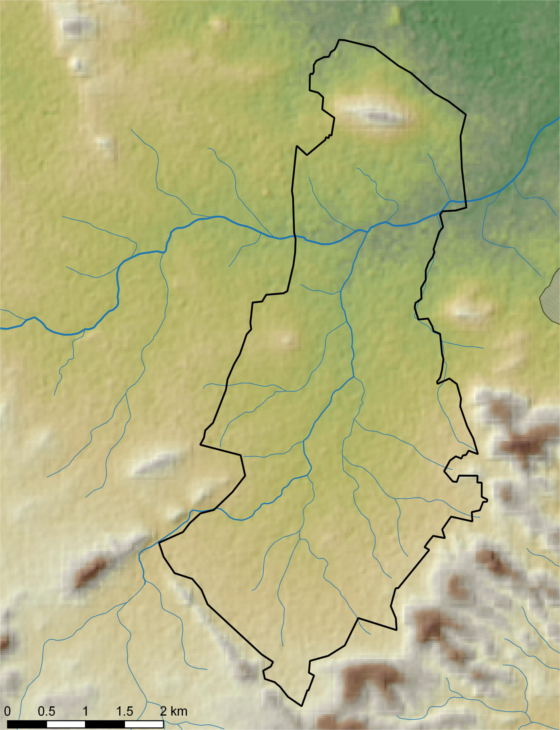
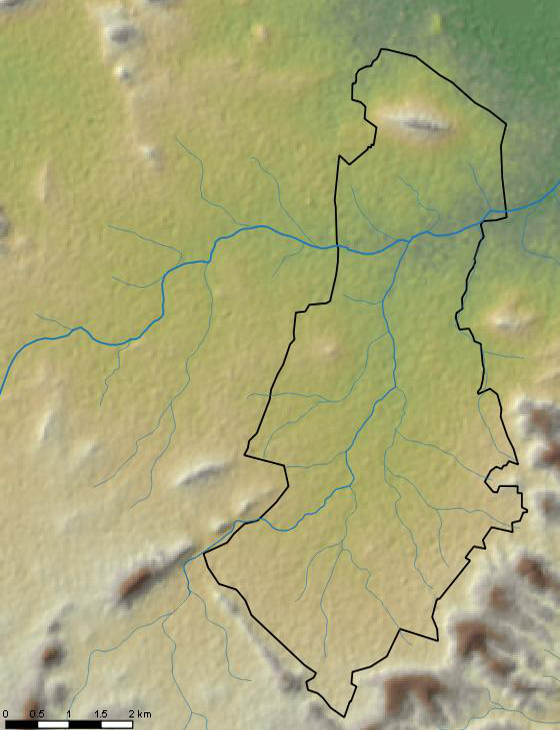
Dhone case study: move mapped to right

diff --git a/assets/js/well_vis.js b/assets/js/well_vis.js
@@ -29,7 +29,7 @@ var w = 580 - margin_map.left - margin_map.right,
 
 // Define map projection
 var projection = d3.geo.transverseMercator()
-      				   .rotate([-77.81858, -15.392, 0])
+      				   .rotate([-77.81258, -15.393, 0])
       				   .translate([w/2, h/2])
       				   .scale(420000);
 
@@ -54,7 +54,7 @@ var colorStatus = d3.scale.ordinal()
 
 var landuseScale = d3.scale.ordinal()
 							.domain(["Single Crop", "Double Crop", "Plantation", "Fallow", "Scrub",  "Rocky Ground", "Settlements"])
-							.range(["#abdf8f", "#5fb933", "#b68f30", "#ffff8c", "#f8d496", "#828482", "#bb312f"])
+							.range(["#9bca6c", "#5fb933", "#b68f30", "#ffff8c", "#f8d496", "#828482", "#bb312f"])
 
 var dem_colors = ["#227516", "#648744", "#9bc133", "#cdcb32", "#fed976", "#ffeda0", "#ffffcc", "#d7cebf", "#b6b098", "#986b41", "#561f10"]
 var dem_breaks = ["0%", "5%", "9%", "15%", "24%", "33%", "43%", "52%", "64%", "76%", "100%"]
@@ -367,11 +367,13 @@ function drawWells(){
 				d3.select(".playPause span").classed("glyphicon", false)
 								  			.attr("class", "glyphicon glyphicon-pause");
 				sliderStatus = "playing";
+				scrollTrig = false;
 				animate(wellCircles, data);
 			}else if (sliderStatus === "paused"){
 				d3.select(".playPause span").classed("glyphicon", false)
 								  			.attr("class", "glyphicon glyphicon-pause");
 				sliderStatus = "playing";
+				scrollTrig = false;
 				animate(wellCircles, data);
 			} else{
 				clearInterval(interval);
@@ -1366,7 +1368,13 @@ function sliderActivate(){
 
 			d3.select("#slider-con-wells .d3-slider #handle-one")
 	      		.attr("left", (100*(value-startYear))/33 + "%");
-			d3.select('#slidertext').text(value);
+			d3.select('#slidertext').text(function(){
+				if(value < 2013){
+					return value;
+				} else if(value == 2013){
+					return 2012;
+				}
+			});
 			updateWells(value);
 			updateLineChart(value);
 			step = value;
@@ -1426,7 +1434,13 @@ function animate(){
 
 		if(step < 2013){
 		   d3.select("#slider-con-wells .d3-slider #handle-one")
-	      		.attr("left", (100*(step-startYear))/33 + "%" );
+	      		.attr("left", function(){
+					var move = (100*(step-startYear))/33; 
+					if(move < 100){
+						return move + "%";
+					}
+	      		});
+	      			 
 	       updateWells(step);
 	       updateLineChart(step);
 	       

diff --git a/assets/js/rwh_vis.js b/assets/js/rwh_vis.js
@@ -29,7 +29,7 @@ svg_map_rwh.append("svg:image")
 
 var legendRWH = d3.select("#legendRWH").append("svg")
 	   .attr("id", "legendSVG_RWH")
-	   .attr("width", 195)
+	   .attr("width", 198)
 	   .attr("height", 200)
        .append("g")
        .attr("id", "legendBoxRWH")
@@ -257,7 +257,7 @@ function drawRWH(){
 			  							   .attr("font-size", "14px")
 			   							   .attr("font-weight", "bold")
 			  							   .attr("fill", "black")
-			   							   .text("Capcity: " + d.Capacity + cubedMetres);	
+			   							   .text("Capacity: " + d.Capacity + cubedMetres);	
 								})
 								.on("mouseout", function(){
 									d3.select(this).attr("d", d3.svg.symbol()
@@ -391,7 +391,7 @@ function updateLegendRWH(buttonScale){
 
 	height = document.getElementById("legendBoxRWH").getBBox().height;	
 	width = document.getElementById("legendBoxRWH").getBBox().width;
-	d3.select("#legendSVG_RWH").attr("height", height + 15).attr("width", width + 5);
+	d3.select("#legendSVG_RWH").attr("height", height + 15).attr("width", width + 10);
 	}
 
 function activateButtonsRWH(){
